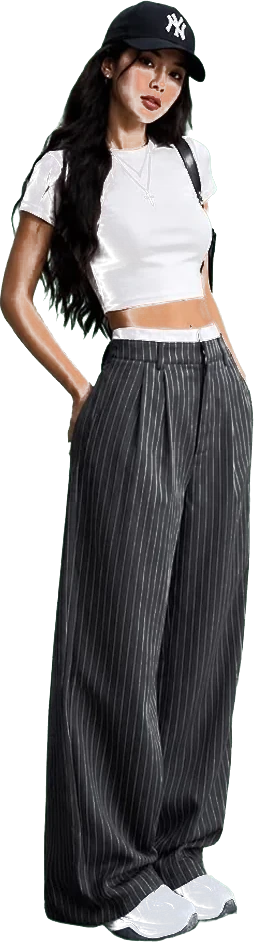
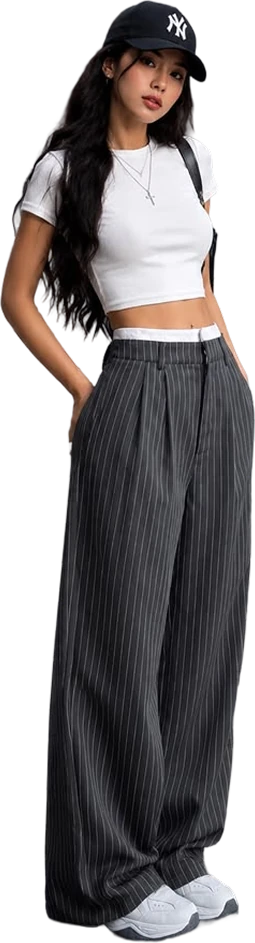
Swap look 3's figure for the new pose
Same person and same outfit — cap, white tee, pinstripe wide-leg trousers
— in a three-quarter turn rather than straight on, so the alt text still
holds and nothing needed reseeding. Trimmed to its alpha bbox like the
others: 723×1063 in, 255×943 of actual subject out.

Claude-Session: https://claude.ai/code/session_01St4RiwyjxhtXNdWZqK7uob

diff --git a/public/vi/index.html b/public/vi/index.html
@@ -594,7 +594,7 @@ if(loc==='VN'){document.cookie='lang=vi;path=/;max-age=31536000;samesite=lax';if
       <div class="hs-figure hs-slot">
         <img class="is-active" src="/img/hero-figure.webp" alt="Áo sơ mi trắng bên trong áo gi-lê len xám, chân váy xếp ly xám dài và giày trắng" width="438" height="1425" loading="eager" fetchpriority="high" decoding="async">
         <img src="/img/hero-figure-2.webp" alt="Áo cardigan xám khoác ngoài áo thun trắng với quần ống rộng đen" width="317" height="964" loading="lazy" decoding="async">
-        <img src="/img/hero-figure-3.webp" alt="Mũ lưỡi trai, áo thun trắng và quần ống rộng sọc nhỏ" width="254" height="942" loading="lazy" decoding="async">
+        <img src="/img/hero-figure-3.webp" alt="Mũ lưỡi trai, áo thun trắng và quần ống rộng sọc nhỏ" width="255" height="943" loading="lazy" decoding="async">
       </div>
 
       <div class="hs-item hs-slot">

diff --git a/public/index.html b/public/index.html
@@ -594,7 +594,7 @@ if(loc==='VN'){document.cookie='lang=vi;path=/;max-age=31536000;samesite=lax';if
       <div class="hs-figure hs-slot">
         <img class="is-active" src="/img/hero-figure.webp" alt="A white shirt under a grey knit vest with a pleated grey midi skirt and white trainers" width="438" height="1425" loading="eager" fetchpriority="high" decoding="async">
         <img src="/img/hero-figure-2.webp" alt="A grey cardigan over a white tee with black wide-leg trousers" width="317" height="964" loading="lazy" decoding="async">
-        <img src="/img/hero-figure-3.webp" alt="A cap, white tee and pinstripe wide-leg trousers" width="254" height="942" loading="lazy" decoding="async">
+        <img src="/img/hero-figure-3.webp" alt="A cap, white tee and pinstripe wide-leg trousers" width="255" height="943" loading="lazy" decoding="async">
       </div>
 
       <div class="hs-item hs-slot">
